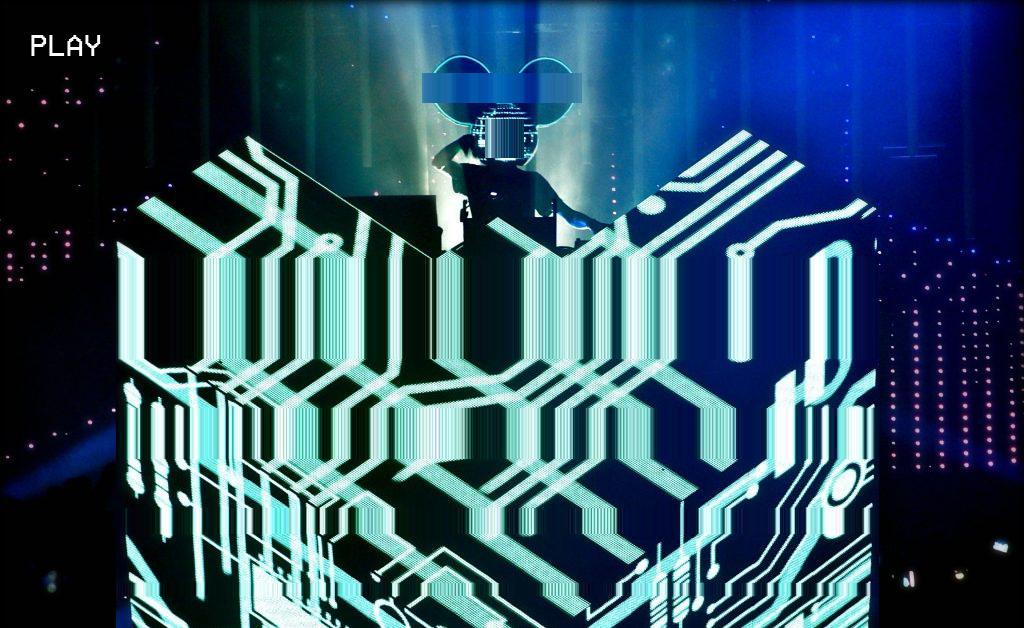
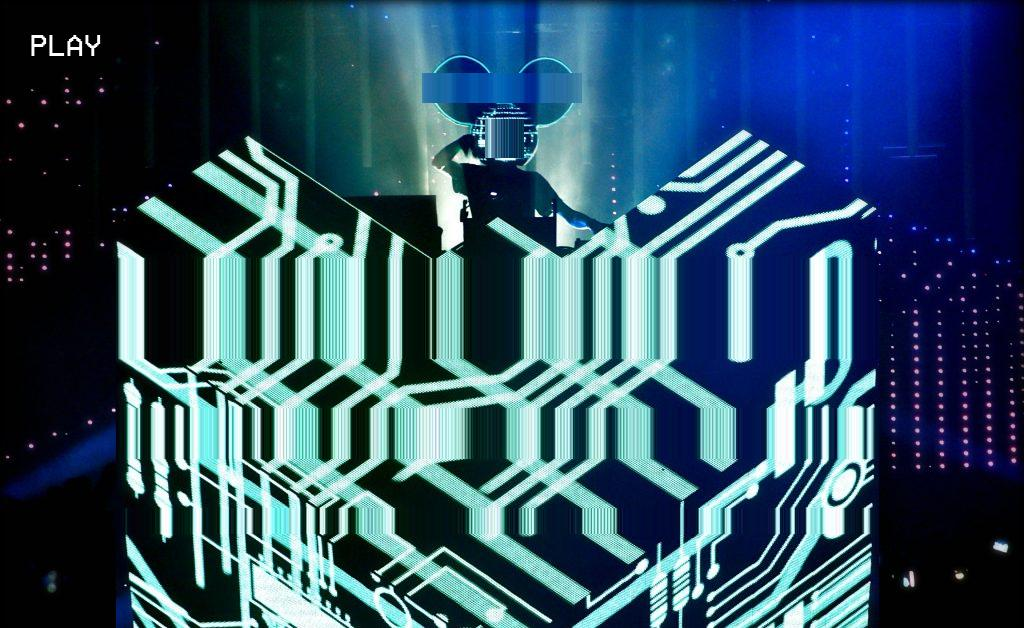
Mau4: Replace manual positioning with a similar loop

Changed region(s): [[0.0938, 0.9076, 0.875, 1.0]]

diff --git a/Examples/Mau4.py b/Examples/Mau4.py
@@ -9,18 +9,15 @@ im = Image.open("./Original/Mau5.jpg")
 Glitch.horizontalStretch(im, (422, 73, 422 + 160, 73 + 30), 10)
 Glitch.horizontalStretch(im, (485, 119, 485 + 39, 119 + 39))
 
-tile = im.crop((116, 258, 116 + 763, 258 + 351))
-Glitch.tile(im, tile, (116, 258), 270, 100, 1)
+top = 258
+copy = 100
 
-tile = im.crop((116, 408, 116 + 763, 408 + 351))
-Glitch.tile(im, tile, (116, 408), 270, 50, 1)
-
-tile = im.crop((116, 508, 116 + 763, 508 + 351))
-Glitch.tile(im, tile, (116, 508), 270, 25, 1)
-
-tile = im.crop((116, 583, 116 + 763, 583 + 351))
-Glitch.tile(im, tile, (116, 583), 270, 12, 1)
+for i in range (0, 3):
+    tile = im.crop((116, top, 116 + 763, 258 + 351))
+    Glitch.tile(im, tile, (116, top), 270, int(copy), 1)
+    
+    top += 150 - (i * 50)
+    copy /= 2
 
 Glitch.addPlayButton(im, 30)
-
 im.save("./Results/Mau4.jpg")
